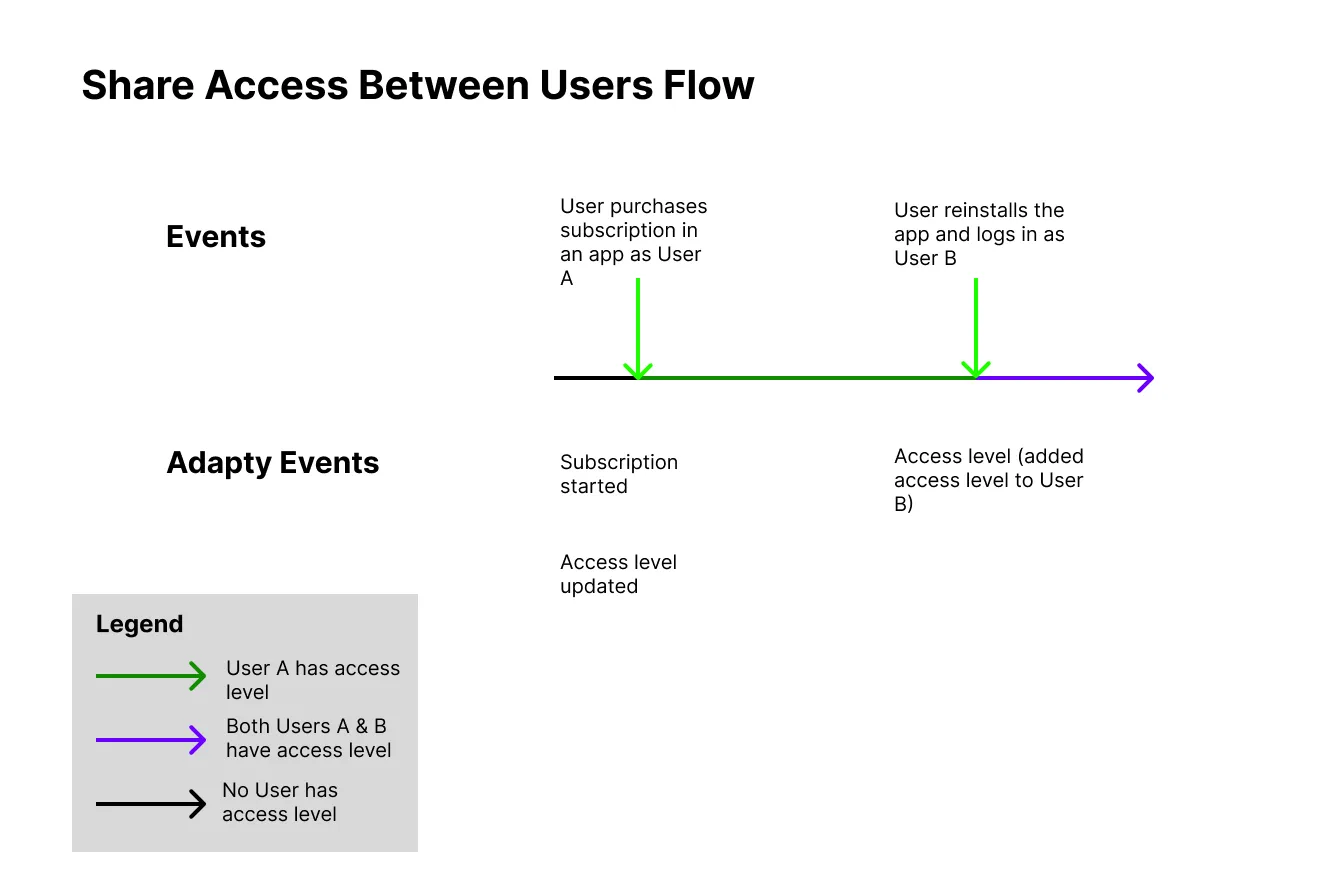
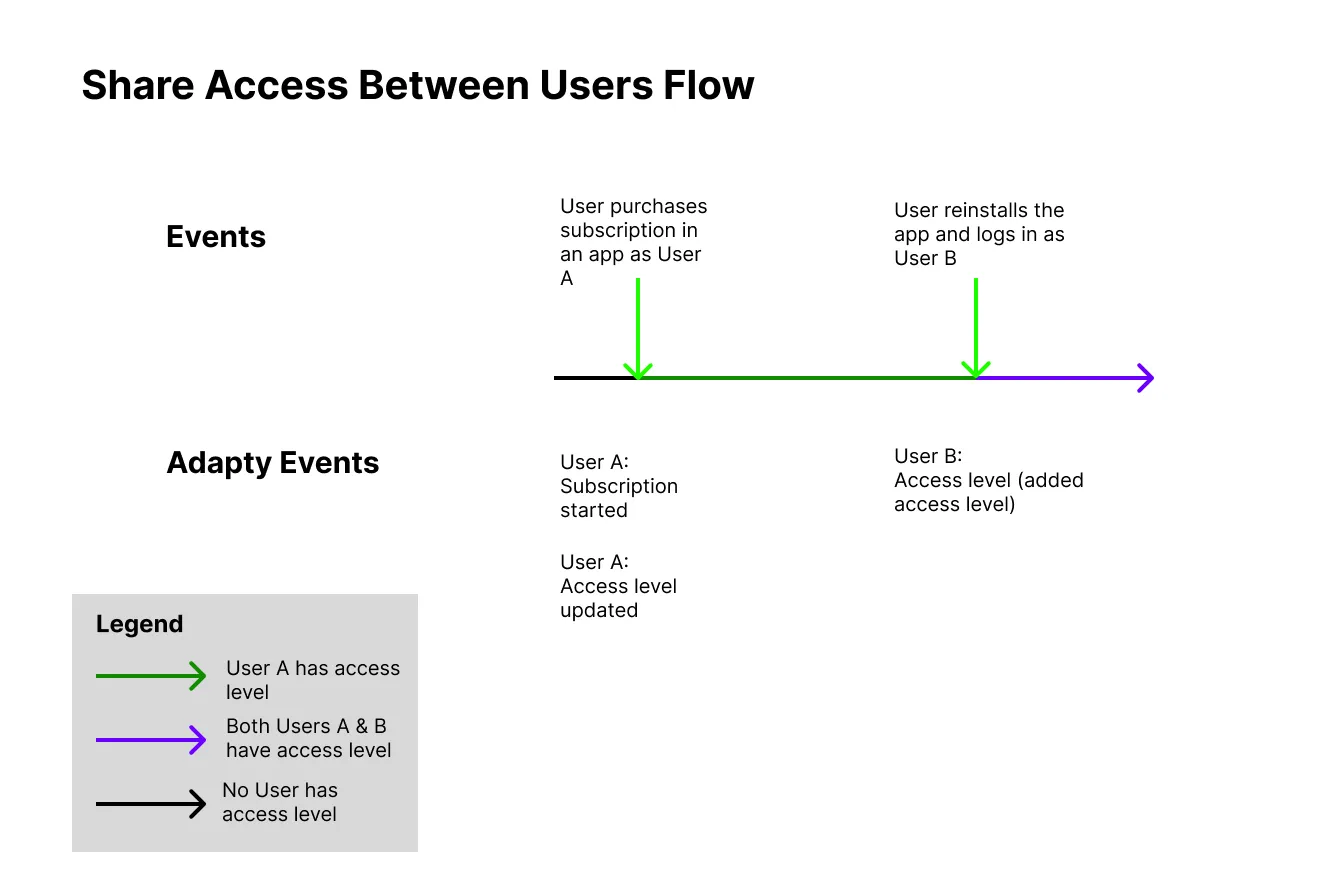
Merged PM's comments

Changed region(s): [[0.6802, 0.4843, 0.8348, 0.5751], [0.402, 0.6054, 0.5256, 0.6962], [0.402, 0.5146, 0.5256, 0.5751]]

diff --git a/versioned_docs/version-3.0/webhook-event-types-and-fields.md b/versioned_docs/version-3.0/webhook-event-types-and-fields.md
@@ -91,24 +91,24 @@ Webhook events are serialized in JSON. The body of a `POST` request to your serv
 
 Event parameters are the same for all event types.
 
-| Field                             | Type                 | Description                                                  |
-| :-------------------------------- | :------------------- | :----------------------------------------------------------- |
-| **event_type**                    | String               | <p>Event name in Adapty format.</p> <ul><li> subscription_started</li><li> subscription_renewed</li><li> subscription_renewal_cancelled</li><li> subscription_renewal_reactivated</li><li> subscription_expired</li><li> subscription_paused</li><li> non_subscription_purchase</li><li> trial_started</li><li> trial_converted </li><li> trial_renewal_cancelled</li><li> trial_renewal_reactivated</li><li> trial_expired</li><li> entered_grace_period</li><li> billing_issue_detected</li><li> subscription_refunded</li><li> non_subscription_purchase_refunded</li><li> access_level_updated</li></ul><p> You can see them in the  **Default event ID** of the [Webhook events](webhook-event-types-and-fields#webhook-event-types) table. Standard flows with events that are created and sent to Webhook are described on the [Webhook event flows](webhook-flows) page.</p> |
-| **idfv**                          | UUID                 | The identifier for vendors (IDFV) is a unique code assigned to all apps developed by a single developer, which in this case refers to your apps. You can find it in the **IDFV** field of the profile in the [Adapty Dashboard](https://app.adapty.io/profiles/users). |
-| **idfa**                          | UUID                 | The identifier for advertisers (IDFA) is a random device identifier assigned by Apple to a user's device. You can find it in the **IDFA** field of the profile in the [Adapty Dashboard](https://app.adapty.io/profiles/users). |
-| **email**                         | String               | E-mail of your user. You can find it in the **Email** field of the profile in the [Adapty Dashboard](https://app.adapty.io/profiles/users). |
-| **profile_id**                    | UUID                 | The ID of the profile in Adapty. You can find it in the **Adapty ID** field of the profile in the [Adapty Dashboard](https://app.adapty.io/profiles/users). |
-| **user_agent**                    | String               | User-agent used by the browser on the device.                |
+| **Field**                         | **Type**             | **Description**                                              |
+| --------------------------------- | -------------------- | ------------------------------------------------------------ |
 | **advertising_id**                | UUID                 | The Advertising ID is a unique code assigned by the Android Operating System that advertisers might use to uniquely identify a user's device. Used for Android only. |
+| **attributions**                  | JSON                 | JSON of [attribution data](webhook-event-types-and-fields#attribution-data). To send the attribution, enable the **Send Attribution** option in the [**Integrations** -> **Webhooks**](https://app.adapty.io/integrations/customwebhook) page. |
+| **customer_user_id**              | String               | User ID you use in your app to identify the user if you do. For example, it can be your user UUID, email, or any other ID. If not set, this field will be null. You can find it in the **Customer User ID** field of the profile in the [Adapty Dashboard](https://app.adapty.io/profiles/users). |
+| **email**                         | String               | E-mail of your user. You can find it in the **Email** field of the profile in the [Adapty Dashboard](https://app.adapty.io/profiles/users). |
+| **event_api_version**             | Integer              | Adapty API version. The current value is `1`.                |
 | **event_datetime**                | ISO 8601 date & time | Event date and time in format [IOS 8601](https://www.iso.org/iso-8601-date-and-time-format.html): starting with the year, followed by the month, the day, the hour, the minutes, seconds, and milliseconds. For example, 2020-07-10T15:00:00.000000+0000, represents the 10th of July 2020 at 3 p.m. |
 | **event_properties**              | JSON                 | JSON of [event properties](webhook-event-types-and-fields#event-properties). |
+| **event_type**                    | String               | <p>Event name in Adapty format.</p> <ul><li> subscription_started</li><li> subscription_renewed</li><li> subscription_renewal_cancelled</li><li> subscription_renewal_reactivated</li><li> subscription_expired</li><li> subscription_paused</li><li> non_subscription_purchase</li><li> trial_started</li><li> trial_converted </li><li> trial_renewal_cancelled</li><li> trial_renewal_reactivated</li><li> trial_expired</li><li> entered_grace_period</li><li> billing_issue_detected</li><li> subscription_refunded</li><li> non_subscription_purchase_refunded</li><li> access_level_updated</li></ul><p> You can see them in the **Default event ID** of the [Webhook events](webhook-event-types-and-fields#webhook-event-types) table. Standard flows with events that are created and sent to Webhook are described on the [Webhook event flows](event-flows) page.</p> |
+| **idfa**                          | UUID                 | The identifier for advertisers (IDFA) is a random device identifier assigned by Apple to a user's device. You can find it in the **IDFA** field of the profile in the [Adapty Dashboard](https://app.adapty.io/profiles/users). |
+| **idfv**                          | UUID                 | The identifier for vendors (IDFV) is a unique code assigned to all apps developed by a single developer, which in this case refers to your apps. You can find it in the **IDFV** field of the profile in the [Adapty Dashboard](https://app.adapty.io/profiles/users). |
 | **integration_ids**               | JSON                 | JSON of user integration identifiers. If a user doesn't have any identifier or integrations are disabled, then a null is sent. |
-| **customer_user_id**              | String               | User ID you use in your app to identify the user if you do. For example, it can be your user UUID, email, or any other ID. If not set, this field will be null. You can find it in the **Customer User ID** field of the profile in the [Adapty Dashboard](https://app.adapty.io/profiles/users). |
-| **event_api_version**             | Integer              | Adapty API version. The current value is `1`.                |
+| **profile_id**                    | UUID                 | The ID of the profile in Adapty. You can find it in the **Adapty ID** field of the profile in the [Adapty Dashboard](https://app.adapty.io/profiles/users). |
 | **profile_install_datetime**      | ISO 8601 date & time | Installation date and time in format [IOS 8601](https://www.iso.org/iso-8601-date-and-time-format.html): starting with the year, followed by the month, the day, the hour, the minutes, seconds, and milliseconds. For example, 2020-07-10T15:00:00.000000+0000, represents the 10th of July 2020 at 3 p.m. |
-| **profiles_sharing_access_level** | JSON                 | <p> A list of objects, each containing the IDs of users who share the access level (including the current profile):</p><ul>  <li> **profile_id**: (UUID) The Adapty Profile ID sharing the access level, including the current profile.</li>  <li> **customer_user_id**: (string) The Customer User ID, if provided.</li> </ul> <p>This is used when your app allows [**Sharing paid access between user accounts**](general#6-sharing-purchases-between-user-accounts).</p> |
-| **attributions**                  | JSON                 | JSON of [attribution data](webhook-event-types-and-fields#attribution-data). To send the attribution, enable the **Send Attribution** option in the [**Integrations** ->  **Webhooks**](https://app.adapty.io/integrations/customwebhook) page. |
-| **user_attributes**               | JSON                 | JSON of [custom user attributes](setting-user-attributes#custom-user-attributes). This will include any custom attributes you’ve set up to send from your mobile app. To send it, enable the **Send User Attributes** option in the [**Integrations** ->  **Webhooks**](https://app.adapty.io/integrations/customwebhook) page. |
+| **profiles_sharing_access_level** | JSON                 | <p> A list of objects, each containing the IDs of users who share the access level (excluding the current profile):</p><ul> <li> **profile_id**: (UUID) The Adapty Profile ID sharing the access level, excluding the current profile.</li> <li> **customer_user_id**: (String) The Customer User ID, if provided.</li> </ul> <p>This is used when your app allows [**Sharing paid access between user accounts**](general#6-sharing-purchases-between-user-accounts).</p> |
+| **user_agent**                    | String               | User-agent used by the browser on the device.                |
+| **user_attributes**               | JSON                 | JSON of [custom user attributes](setting-user-attributes#custom-user-attributes). This will include any custom attributes you’ve set up to send from your mobile app. To send it, enable the **Send User Attributes** option in the [**Integrations** -> **Webhooks**](https://app.adapty.io/integrations/customwebhook) page. |
 
 ### Attribution data
 
@@ -127,6 +127,10 @@ To send the attribution, enable the **Send Attribution** option in the [**Integr
 | **created_at**      | ISO 8601 date | Date and time of attribution record creation.      |
 | **network_user_id** | String        | ID assigned to the user by the attribution source. |
 
+### Integration IDs
+
+The following integration IDs are used now in events: `adjust_device_id`, `airbridge_device_id`, `amplitude_device_id`, `amplitude_user_id`, `appmetrica_device_id`, `appmetrica_profile_id`, `appsflyer_id`, `branch_id`, `facebook_anonymous_id`, `firebase_app_instance_id`, `mixpanel_user_id`,  `pushwoosh_hwid`, `one_signal_player_id`, `one_signal_subscription_id`, `tenjin_analytics_installation_id`.
+
 ### Event Properties
 
 Event properties can vary depending on the event type and even between events of the same type. For instance, an event originating from the App Store won’t include Android-specific properties like `base_plan_id`.
@@ -137,35 +141,42 @@ The [Access Level Updated](webhook-event-types-and-fields#for-access-level-updat
 
 The event properties for most event types are consistent (except for **Access Level Updated** event, which is described in its own section). Below is a comprehensive table highlighting properties and indicating if they belong to specific events.
 
-| Field                         | Type          | Description                                                  |
-| :---------------------------- | :------------ | :----------------------------------------------------------- |
-| **base_plan_id**              | String        | [Base plan ID](https://support.google.com/googleplay/android-developer/answer/12154973) in the Google Play Store or [price ID](https://docs.stripe.com/products-prices/how-products-and-prices-work#what-is-a-price) in Stripe. |
-| **currency**                  | String        | Local currency (defaults to USD).                            |
-| **environment**               | String        | Possible values are `Sandbox` or `Production`.               |
-| **event_datetime**            | ISO 8601 date | The date and time of the event.                              |
-| **original_purchase_date**    | ISO 8601 date | For recurring subscriptions, the original purchase is the first transaction in the chain, its ID called original transaction ID  links the chain of renewals; later transactions are extensions of it. The original purchase date is the date and time of this first transaction. |
-| **original_transaction_id**   | String        | <p>For recurring subscriptions, this is the original transaction ID that links the chain of renewals. The original transaction is the first in the chain; later transactions are extensions of it.</p><p>If no extensions, `original_transaction_id` matches store_transaction_id.</p> |
-| **profile_country**           | String        | Determined by Adapty, based on profile IP.                   |
-| **profile_event_id**          | UUID          | Unique event ID that can be used for deduplication.          |
-| **profile_has_access_level**  | Boolean       | A boolean that indicates whether the profile has an active access level. |
-| **profile_id**                | UUID          | Adapty internal user ID.                                     |
-| **profile_ip_address**        | String        | Profile IP (can be IPv4 or IPv6, with IPv4 preferred when available). |
-| **profile_total_revenue_usd** | Float         | Total revenue for the profile, refunds included.             |
-| **purchase_date**             | ISO 8601 date | The date and time of the product purchase.                   |
-| **store**                     | String        | Store where the product was bought. Possible values: **app_store**, **play_store**, **stripe**. |
-| **store_country**             | String        | The country sent to us by the app store.                     |
-| **transaction_id**            | String        | Unique identifier for a transaction.                         |
-| **vendor_product_id**         | String        | Product ID in the Apple App Store, Google Play Store, or Stripe. |
-| **cancellation_reason**       | String        | <p>Possible reasons for cancellation: `voluntarily_cancelled`, `billing_error`, `price_increase`, `product_was_not_available`, `refund`, `cancelled_by_developer`, `new_subscription_replace`, `upgraded`, `unknown`, `adapty_revoked`.</p><p>Present in the following event types:</p>`subscription_cancelled`, `subscription_refunded`, and `trial_cancelled`. |
-| **ab_test_name**              | String        | Name of the A/B test where the transaction originated.       |
-| **cohort_name**               | String        | Name of the audience to which the profile belongs.           |
-| **developer_id**              | String        | The ID of the placement where the transaction originated.    |
-| **paywall_name**              | String        | Name of the paywall where the transaction originated.        |
-| **paywall_revision**          | Integer       | Revision of the paywall where the transaction originated. The default value is 1. |
-| **variation_id**              | UUID          | Unique ID of the paywall where the purchase was made.        |
-| **trial_duration**            | String        | Duration of a trial period in days. Sent in a format "{} days", for example, "7 days". Present in the trial connected event types only: `trial_started`, `trial_converted`, `trial_cancelled`. |
-| **store_offer_category**      | String        | Applied offer category. Possible values are `introductory`, `promotional`, `winback`. |
-| **store_offer_discount_type** | String        | Applied offer type. Possible values are `free_trial`, `pay_as_you_go`, and `pay_up_front`. |
+| Field                             | Type          | Description                                                  |
+| :-------------------------------- | :------------ | :----------------------------------------------------------- |
+| **ab_test_name**                  | String        | Name of the A/B test where the transaction originated.       |
+| **base_plan_id**                  | String        | [Base plan ID](https://support.google.com/googleplay/android-developer/answer/12154973) in the Google Play Store or [price ID](https://docs.stripe.com/products-prices/how-products-and-prices-work#what-is-a-price) in Stripe. |
+| **cancellation_reason**           | String        | <p>Possible reasons for cancellation: `voluntarily_cancelled`, `billing_error`, `price_increase`, `product_was_not_available`, `refund`, `cancelled_by_developer`, `new_subscription_replace`, `upgraded`, `unknown`, `adapty_revoked`.</p><p>Present in the following event types:</p>`subscription_cancelled`, `subscription_refunded`, and `trial_cancelled`. |
+| **cohort_name**                   | String        | Name of the audience to which the profile belongs.           |
+| **consecutive_payments**          | Integer       | The number of periods, that a user is subscribed to without interruptions. Includes the current period. |
+| **currency**                      | String        | Local currency (defaults to USD).                            |
+| **developer_id**                  | String        | The ID of the placement where the transaction originated.    |
+| **environment**                   | String        | Possible values are `Sandbox` or `Production`.               |
+| **event_datetime**                | ISO 8601 date | The date and time of the event.                              |
+| **original_purchase_date**        | ISO 8601 date | For recurring subscriptions, the original purchase is the first transaction in the chain, its ID called original transaction ID  links the chain of renewals; later transactions are extensions of it. The original purchase date is the date and time of this first transaction. |
+| **original_transaction_id**       | String        | <p>For recurring subscriptions, this is the original transaction ID that links the chain of renewals. The original transaction is the first in the chain; later transactions are extensions of it.</p><p>If no extensions, `original_transaction_id` matches store_transaction_id.</p> |
+| **paywall_name**                  | String        | Name of the paywall where the transaction originated.        |
+| **paywall_revision**              | Integer       | Revision of the paywall where the transaction originated. The default value is 1. |
+| **price_local**                   | Float         | Product price before Apple/Google cut in local currency. Revenue. |
+| **price_usd**                     | Float         | Product price before Apple/Google cut in USD. Revenue.       |
+| **profile_country**               | String        | Determined by Adapty, based on profile IP.                   |
+| **profile_event_id**              | UUID          | Unique event ID that can be used for deduplication.          |
+| **profile_has_access_level**      | Boolean       | A boolean that indicates whether the profile has an active access level. |
+| **profile_id**                    | UUID          | Adapty internal user ID.                                     |
+| **profile_ip_address**            | String        | Profile IP (can be IPv4 or IPv6, with IPv4 preferred when available). |
+| **profile_total_revenue_usd**     | Float         | Total revenue for the profile, refunds included.             |
+| **profiles_sharing_access_level** | JSON          | <p> A list of objects, each containing the IDs of users who share the access level (excluding the current profile):</p><ul>  <li> **profile_id**: (UUID) The Adapty Profile ID sharing the access level, excluding the current profile.</li>  <li> **customer_user_id**: (string) The Customer User ID, if provided.</li> </ul> <p>This is used when your app allows [**Sharing paid access between user accounts**](general#6-sharing-purchases-between-user-accounts).</p> |
+| **promotional_offer_id**          | String        | ID of promotional offer as indicated in the Product section of the Adapty Dashboard |
+| **purchase_date**                 | ISO 8601 date | The date and time of the product purchase.                   |
+| **rate_after_first_year**         | Boolean       | Boolean indicates that a vendor reduces cuts to 15%. Apple and Google have 30% first-year cut and 15% after it. |
+| **store**                         | String        | Store where the product was bought. Possible values: **app_store**, **play_store**, **stripe**. |
+| **store_country**                 | String        | The country sent to us by the app store.                     |
+| **store_offer_category**          | String        | Applied offer category. Possible values are `introductory`, `promotional`, `winback`. |
+| **store_offer_discount_type**     | String        | Applied offer type. Possible values are `free_trial`, `pay_as_you_go`, and `pay_up_front`. |
+| **subscription_expires_at**       | ISO 8601 date | The Expiration date of subscription. Usually in the future.  |
+| **transaction_id**                | String        | Unique identifier for a transaction.                         |
+| **trial_duration**                | String        | Duration of a trial period in days. Sent in a format "{} days", for example, "7 days". Present in the trial connected event types only: `trial_started`, `trial_converted`, `trial_cancelled`. |
+| **variation_id**                  | UUID          | Unique ID of the paywall where the purchase was made.        |
+| **vendor_product_id**             | String        | Product ID in the Apple App Store, Google Play Store, or Stripe. |
 
 #### Additional tax and revenue event properties
 
@@ -197,10 +208,12 @@ The **Access Level Updated** event is a specific webhook event generated only wh
 | **access_level_id**                | String        | The ID of the access level.                                  |
 | **activated_at**                   | ISO 8601 date | Date and time when the access was latest activated.          |
 | **active_introductory_offer_type** | String        | Type of introductory offer applied. Possible values are `free_trial`, `pay_as_you_go`, and `pay_up_front`. |
+| **active_promotional_offer_id**    | String        | ID of promotional offer as indicated in the Product section of the Adapty Dashboard |
+| **active_promotional_offer_type**  | String        | Type of promotional offer applied. Possible values are `free_trial`, `pay_as_you_go`, and `pay_up_front`. |
 | **base_plan_id**                   | String        | [Base plan ID](https://support.google.com/googleplay/android-developer/answer/12154973) in the Google Play Store or [price ID](https://docs.stripe.com/products-prices/how-products-and-prices-work#what-is-a-price) in Stripe. |
 | **billing_issue_detected_at**      | ISO 8601 date | Date and time of billing issue.                              |
 | **cancellation_reason**            | String        | Possible reasons for cancellation: `voluntarily_cancelled`, `billing_error`, `price_increase`, `product_was_not_available`, `refund`, `cancelled_by_developer`, `new_subscription_replace`, `upgraded`, `unknown`, `adapty_revoked`. |
-| **cohort_name**                    | String        | Name of the audience to which the profile belongs to.        |
+| **cohort_name**                    | String        | Name of the audience to which the profile belongs.           |
 | **currency**                       | String        | Local currency (defaults to USD).                            |
 | **developer_id**                   | String        | The ID of the placement where the transaction originated.    |
 | **environment**                    | String        | Possible values are `Sandbox` or `Production`.               |
@@ -220,7 +233,7 @@ The **Access Level Updated** event is a specific webhook event generated only wh
 | **profile_id**                     | UUID          | Adapty internal user profile ID.                             |
 | **profile_ip_address**             | String        | Profile IP address of the user.                              |
 | **profile_total_revenue_usd**      | Float         | Total revenue for the profile, refunds included.             |
-| **profiles_sharing_access_level**  | JSON          | <p> A list of objects, each containing the IDs of users who share the access level (including the current profile):</p><ul>  <li> **profile_id**: (UUID) The Adapty Profile ID sharing the access level, including the current profile.</li>  <li> **customer_user_id**: (string) The Customer User ID, if provided.</li> </ul> <p>This is used when your app allows [**Sharing paid access between user accounts**](general#6-sharing-purchases-between-user-accounts).</p> |
+| **profiles_sharing_access_level**  | JSON          | <p> A list of objects, each containing the IDs of users who share the access level (excluding the current profile):</p><ul>  <li> **profile_id**: (UUID) The Adapty Profile ID sharing the access level, excluding the current profile.</li>  <li> **customer_user_id**: (string) The Customer User ID, if provided.</li> </ul> <p>This is used when your app allows [**Sharing paid access between user accounts**](general#6-sharing-purchases-between-user-accounts).</p> |
 | **purchase_date**                  | ISO 8601 date | The date and time of product purchase.                       |
 | **renewed_at**                     | ISO 8601 date | Date and time when the access will be renewed.               |
 | **store**                          | String        | Store where the product was bought. Possible values: **app_store**, **play_store**, **stripe**. |

diff --git a/versioned_docs/version-3.0/event-flows.md b/versioned_docs/version-3.0/event-flows.md
@@ -378,6 +378,47 @@ The recommended option is to transfer the access level to the new user. This pre
 />
 </Zoom>
 
+Here’s a breakdown of the fields related to access level assignment and transferring in the events generated in this scenario:
+
+- **User A: Access level updated (sent when User A purchases a subscription in the app)**
+
+  ```json
+  {
+    "profile_id": "00000000-0000-0000-0000-000000000000",
+    "customer_user_id": UserA,
+    "event_properties": {
+      "profile_has_access_level": true,
+    },
+    "profiles_sharing_access_level": null
+  }
+  ```
+
+- **User A: Access level updated (sent when the app is reinstalled and User B logs in, revoking User A's access)**
+
+  ```json
+  {
+    "profile_id": "00000000-0000-0000-0000-000000000000",
+    "customer_user_id": UserA,
+    "event_properties": {
+      "profile_has_access_level": false,
+    },
+    "profiles_sharing_access_level": null
+  }
+  ```
+
+- **User B: Access level updated (sent when User B logs in and access is granted)**
+
+  ```json
+  {
+    "profile_id": "00000000-0000-0000-0000-000000000001",
+    "customer_user_id": UserB,
+    "event_properties": {
+      "profile_has_access_level": true,
+    },
+    "profiles_sharing_access_level": null
+  }
+  ```
+
 ###  Shared Access Between Users Flow
 
 This option allows multiple users to share the same access level, though it’s a bit risky since it may lead to multiple users accessing the same content. While the access level is shared, all transactions are logged under the original [Customer User ID](identifying-users#setting-customer-user-id-on-configuration) to maintain complete transaction history and analytics.
@@ -394,6 +435,39 @@ Therefore, only 1 event will be created: **Access level updated** to grant acces
   }}
 />
 </Zoom>
+
+Here’s a breakdown of the fields related to access level assignment and sharing in the events generated in this scenario:
+
+- **User A: Access level updated (sent when User A purchases a subscription in the app)**
+
+  ```json
+  {
+    "profile_id": "00000000-0000-0000-0000-000000000000",
+    "customer_user_id": UserA,
+    "event_properties": {
+      "profile_has_access_level": true,
+    },
+    "profiles_sharing_access_level": null
+  }
+  ```
+
+- **User B: Access level updated (sent when User B logs in and access is granted)**
+
+  ```json
+  {
+    "profile_id": "00000000-0000-0000-0000-000000000000",
+    "customer_user_id": UserA,
+    "event_properties": {
+      "profile_has_access_level": true,
+    },
+    "profiles_sharing_access_level": [
+      {
+        "profile_id": "00000000-0000-0000-0000-000000000001,
+        "customer_user_id": UserB
+      }
+    ]
+  }
+  ```
 
 ###  Access Not Shared Between Users Flow
 
